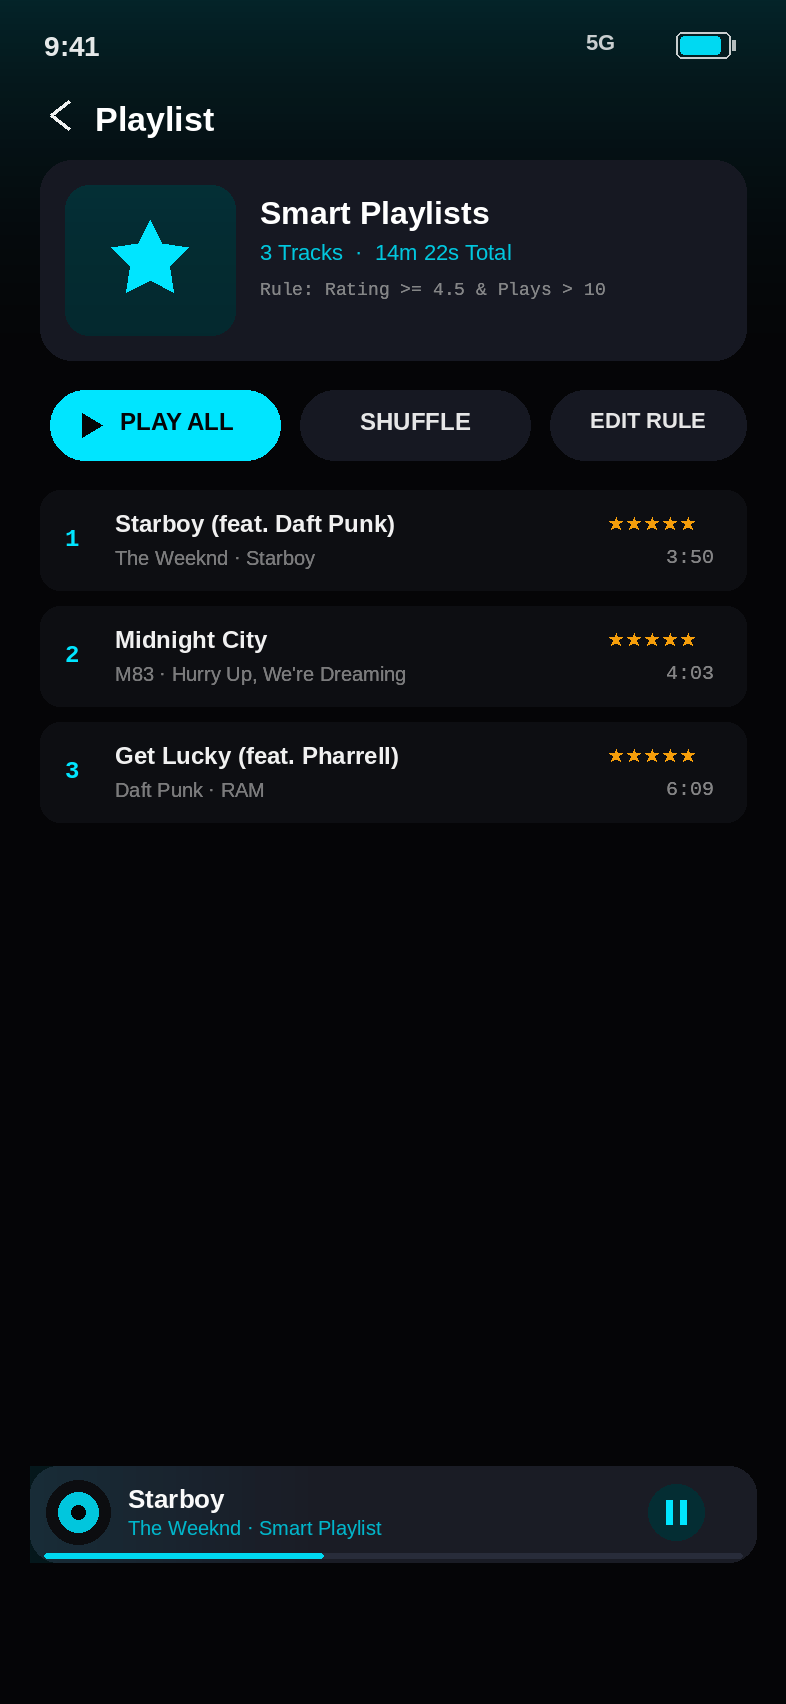
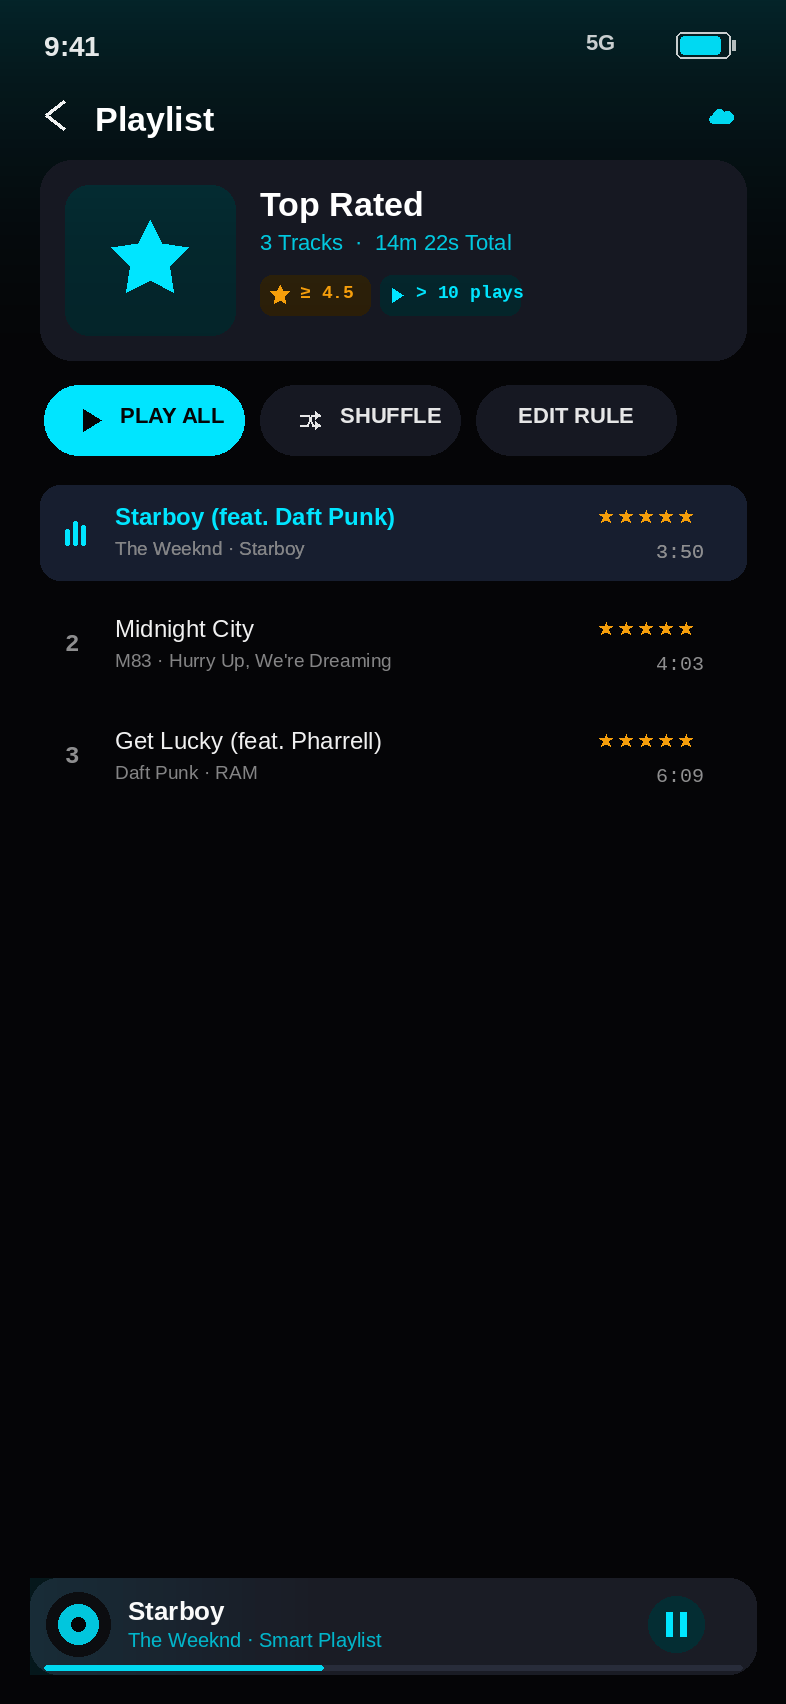
fix(ui): eliminate star tofu glyphs, tonal rule chips, and active track highlight (UI Audit 07/42)

diff --git a/lib/features/playlists/presentation/screens/playlist_detail_screen.dart b/lib/features/playlists/presentation/screens/playlist_detail_screen.dart
@@ -105,6 +105,8 @@ class PlaylistDetailScreen extends ConsumerWidget {
   @override
   Widget build(BuildContext context, WidgetRef ref) {
     final tracksAsync = ref.watch(playlistTracksProvider(playlist.id));
+    final playerState = ref.watch(playerNotifierProvider);
+    final currentTrackId = playerState.currentTrack?.id;
     final theme = Theme.of(context);
     final accent = theme.colorScheme.primary;
     final surfaceTokens = NexaSurfaceTokens.of(context);
@@ -192,6 +194,44 @@ class PlaylistDetailScreen extends ConsumerWidget {
                               style: AppTypography.bodySmall,
                             ),
                           ),
+                          if (playlist.isSmart) ...[
+                            const SizedBox(height: 6),
+                            Row(
+                              children: [
+                                Container(
+                                  padding: const EdgeInsets.symmetric(horizontal: 8, vertical: 3),
+                                  decoration: BoxDecoration(
+                                    color: surfaceTokens.level2,
+                                    borderRadius: BorderRadius.circular(8),
+                                  ),
+                                  child: Row(
+                                    mainAxisSize: MainAxisSize.min,
+                                    children: [
+                                      const Icon(Icons.star_rounded, size: 14, color: Colors.amber),
+                                      const SizedBox(width: 4),
+                                      Text('≥ 4.5', style: AppTypography.labelSmall.copyWith(color: Colors.amber)),
+                                    ],
+                                  ),
+                                ),
+                                const SizedBox(width: 6),
+                                Container(
+                                  padding: const EdgeInsets.symmetric(horizontal: 8, vertical: 3),
+                                  decoration: BoxDecoration(
+                                    color: surfaceTokens.level2,
+                                    borderRadius: BorderRadius.circular(8),
+                                  ),
+                                  child: Row(
+                                    mainAxisSize: MainAxisSize.min,
+                                    children: [
+                                      Icon(Icons.play_arrow_rounded, size: 14, color: accent),
+                                      const SizedBox(width: 4),
+                                      Text('> 10 plays', style: AppTypography.labelSmall.copyWith(color: accent)),
+                                    ],
+                                  ),
+                                ),
+                              ],
+                            ),
+                          ],
                         ],
                       ),
                     ),
@@ -308,6 +348,7 @@ class PlaylistDetailScreen extends ConsumerWidget {
                                   child: TrackTile.fromTrack(
                                     key: Phase2Keys.trackTile(track.id),
                                     track: track,
+                                    isPlaying: track.id == currentTrackId,
                                     onTap: () {
                                       ref.read(playbackQueueProvider).setQueue(
                                             tracks,
